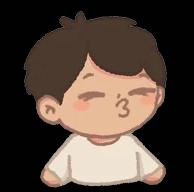
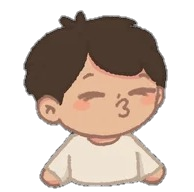
testing

diff --git a/index.html b/index.html
@@ -7,7 +7,7 @@
 <link rel="preconnect" href="https://fonts.googleapis.com">
 <link rel="preconnect" href="https://fonts.gstatic.com" crossorigin>
 <link href="https://fonts.googleapis.com/css2?family=Caveat:wght@500;700&family=Quicksand:wght@400;500;600;700&display=swap" rel="stylesheet">
-<link rel="stylesheet" href="style.css">
+<link rel="stylesheet" href="style.css?v=2">
 </head>
 <body>
 
@@ -21,6 +21,12 @@
   <svg class="sketch-heart h6" viewBox="0 0 44 40"><path d="M22,9 C16,-2 -1,-1 0,11 C1,22 13,27 22,37 C32,27 43,23 44,11 C45,-1 28,-2 22,9 Z"/></svg>
   <svg class="sketch-heart h7" viewBox="0 0 44 40"><path d="M22,9 C16,-2 -1,-1 0,11 C1,22 13,27 22,37 C32,27 43,23 44,11 C45,-1 28,-2 22,9 Z"/></svg>
   <svg class="sketch-heart h8" viewBox="0 0 44 40"><path d="M22,9 C16,-2 -1,-1 0,11 C1,22 13,27 22,37 C32,27 43,23 44,11 C45,-1 28,-2 22,9 Z"/></svg>
+  <svg class="sketch-heart h9" viewBox="0 0 44 40"><path d="M22,9 C16,-2 -1,-1 0,11 C1,22 13,27 22,37 C32,27 43,23 44,11 C45,-1 28,-2 22,9 Z"/></svg>
+  <svg class="sketch-heart h10" viewBox="0 0 44 40"><path d="M22,9 C16,-2 -1,-1 0,11 C1,22 13,27 22,37 C32,27 43,23 44,11 C45,-1 28,-2 22,9 Z"/></svg>
+  <svg class="sketch-heart h11" viewBox="0 0 44 40"><path d="M22,9 C16,-2 -1,-1 0,11 C1,22 13,27 22,37 C32,27 43,23 44,11 C45,-1 28,-2 22,9 Z"/></svg>
+  <svg class="sketch-heart h12" viewBox="0 0 44 40"><path d="M22,9 C16,-2 -1,-1 0,11 C1,22 13,27 22,37 C32,27 43,23 44,11 C45,-1 28,-2 22,9 Z"/></svg>
+  <svg class="sketch-heart h13" viewBox="0 0 44 40"><path d="M22,9 C16,-2 -1,-1 0,11 C1,22 13,27 22,37 C32,27 43,23 44,11 C45,-1 28,-2 22,9 Z"/></svg>
+  <svg class="sketch-heart h14" viewBox="0 0 44 40"><path d="M22,9 C16,-2 -1,-1 0,11 C1,22 13,27 22,37 C32,27 43,23 44,11 C45,-1 28,-2 22,9 Z"/></svg>
 </div>
 
 <!-- Balloons burst here on envelope open, populated by JS -->
@@ -31,27 +37,27 @@
 <!-- ============================================================ -->
 <section id="countdown-screen" class="screen">
   <div class="soft-glow"></div>
-  <p class="eyebrow">something's coming</p>
-  <h1 class="script-heading">10 months, almost&nbsp;here</h1>
+  <p class="eyebrow">10 mesesitos <3</p>
+  <h1 class="script-heading">Nos faltan solo&nbsp;</h1>
   <div class="countdown">
     <div class="time-block">
       <span id="cd-days" class="time-num">00</span>
-      <span class="time-label">days</span>
+      <span class="time-label">dias</span>
     </div>
     <div class="time-block">
       <span id="cd-hours" class="time-num">00</span>
-      <span class="time-label">hours</span>
+      <span class="time-label">horas</span>
     </div>
     <div class="time-block">
       <span id="cd-mins" class="time-num">00</span>
-      <span class="time-label">minutes</span>
+      <span class="time-label">minutos</span>
     </div>
     <div class="time-block">
       <span id="cd-secs" class="time-num">00</span>
-      <span class="time-label">seconds</span>
+      <span class="time-label">segundos</span>
     </div>
   </div>
-  <p class="countdown-footer">until September 10th 💌</p>
+  <p class="countdown-footer">para el 10 de Septiembre 💌</p>
 </section>
 
 
@@ -66,17 +72,17 @@
       <img id="char-img" class="char-img" src="images/beforeOpening.png" alt="">
     </div>
 
-    <p id="cat-speech" class="speech-bubble">Happy 10 months my love 🩷<br>Do you want to see your gift?</p>
+    <p id="cat-speech" class="speech-bubble">Felices 10 meses mi amor 🩷<br>Quieres ver tu regalo?</p>
 
     <div class="button-row">
-      <button id="btn-yes" class="btn btn-yes">yes</button>
+      <button id="btn-yes" class="btn btn-yes">Si!</button>
       <button id="btn-no" class="btn btn-no">no</button>
     </div>
   </div>
 
   <!-- ---------- Scene B: bouquet + card ---------- -->
   <div id="scene-bouquet" class="scene" hidden>
-    <p class="script-heading small">for you</p>
+    <p class="script-heading small">toma para tiiii <3</p>
 
     <img class="char-img flower-boy-img" src="images/flowerBoy.png" alt="">
 
@@ -92,35 +98,38 @@
           <path class="seal-shine" d="M-7,-6 C-8,-4 -8,-1 -6,0" />
         </g>
       </svg>
-      <span class="card-hint">press the envelope to open it</span>
+      <span class="card-hint">hint: picale</span>
     </button>
   </div>
 
   <!-- ---------- Scene C: the letter ---------- -->
   <div id="scene-letter" class="scene" hidden>
-    <div class="letter-paper">
-      <!--
-        ✏  WRITE YOUR LETTER HERE.
-        This is plain HTML, so:
-          - press Enter for a new paragraph → wrap it in <p>...</p>
-          - you can use <br> for a single line break inside a paragraph
-        Everything between the <div class="letter-text"> tags is what she'll read.
-      -->
-      <div class="letter-text">
-        <p>My love,</p>
-        <p>
-          Write your letter to her right here. Replace this whole paragraph
-          (and add as many more as you'd like) with whatever you want to say —
-          this is the part only you can write.
-        </p>
-        <p>Happy 10 months. Here's to many, many more.</p>
-        <p class="signature">— yours</p>
+    <div class="letter-wrap">
+      <img class="peek-char" src="images/afterOpening.png" alt="">
+      <div class="letter-paper">
+        <!--
+          ✏  WRITE YOUR LETTER HERE.
+          This is plain HTML, so:
+            - press Enter for a new paragraph → wrap it in <p>...</p>
+            - you can use <br> for a single line break inside a paragraph
+          Everything between the <div class="letter-text"> tags is what she'll read.
+        -->
+        <div class="letter-text">
+          <p>My love,</p>
+          <p>
+            Write your letter to her right here. Replace this whole paragraph
+            (and add as many more as you'd like) with whatever you want to say —
+            this is the part only you can write.
+          </p>
+          <p>Happy 10 months. Here's to many, many more.</p>
+          <p class="signature">— yours</p>
+        </div>
       </div>
     </div>
   </div>
 
 </section>
 
-<script src="script.js"></script>
+<script src="script.js?v=2"></script>
 </body>
 </html>

diff --git a/style.css b/style.css
@@ -227,7 +227,28 @@ body {
 .card-btn:hover .card-svg { transform: translateY(-3px); }
 
 /* --- letter --- */
+.letter-wrap {
+  position: relative;
+  max-width: 480px;
+  width: 100%;
+  display: flex;
+  justify-content: center;
+}
+
+.peek-char {
+  position: absolute;
+  top: -108px;
+  left: 50%;
+  transform: translateX(-50%);
+  width: 140px;
+  height: auto;
+  z-index: 0;
+  filter: drop-shadow(0 6px 10px rgba(178,58,90,0.15));
+}
+
 .letter-paper {
+  position: relative;
+  z-index: 1;
   background: var(--white);
   border-radius: 14px;
   padding: clamp(24px, 5vw, 44px);
@@ -276,19 +297,25 @@ body {
 .sketch-heart {
   position: absolute;
   fill: none;
-  stroke: var(--rose-mid);
+  stroke: var(--rose);
   stroke-width: 2.2;
   stroke-linecap: round;
   stroke-linejoin: round;
 }
-.h1 { width: 34px; top: 8%;  left: 7%;   opacity: 0.16; transform: rotate(-14deg); }
-.h2 { width: 54px; top: 16%; right: 9%;  opacity: 0.13; transform: rotate(11deg); }
-.h3 { width: 26px; top: 32%; left: 4%;   opacity: 0.18; transform: rotate(6deg); }
-.h4 { width: 44px; top: 46%; right: 5%;  opacity: 0.14; transform: rotate(-9deg); }
-.h5 { width: 30px; top: 66%; left: 10%;  opacity: 0.17; transform: rotate(16deg); }
-.h6 { width: 50px; top: 74%; right: 12%; opacity: 0.12; transform: rotate(-6deg); }
-.h7 { width: 24px; top: 88%; left: 22%;  opacity: 0.16; transform: rotate(-18deg); }
-.h8 { width: 38px; top: 4%;  left: 44%;  opacity: 0.11; transform: rotate(9deg); }
+.h1  { width: 34px; top: 8%;  left: 7%;   opacity: 0.30; transform: rotate(-14deg); }
+.h2  { width: 54px; top: 16%; right: 9%;  opacity: 0.26; transform: rotate(11deg); }
+.h3  { width: 26px; top: 32%; left: 4%;   opacity: 0.32; transform: rotate(6deg); }
+.h4  { width: 44px; top: 46%; right: 5%;  opacity: 0.28; transform: rotate(-9deg); }
+.h5  { width: 30px; top: 66%; left: 10%;  opacity: 0.30; transform: rotate(16deg); }
+.h6  { width: 50px; top: 74%; right: 12%; opacity: 0.24; transform: rotate(-6deg); }
+.h7  { width: 24px; top: 88%; left: 22%;  opacity: 0.28; transform: rotate(-18deg); }
+.h8  { width: 38px; top: 4%;  left: 44%;  opacity: 0.22; transform: rotate(9deg); }
+.h9  { width: 28px; top: 24%; left: 30%;  opacity: 0.22; transform: rotate(-11deg); }
+.h10 { width: 32px; top: 22%; right: 28%; opacity: 0.20; transform: rotate(13deg); }
+.h11 { width: 22px; top: 40%; left: 20%;  opacity: 0.26; transform: rotate(4deg); }
+.h12 { width: 36px; top: 56%; right: 22%; opacity: 0.22; transform: rotate(-7deg); }
+.h13 { width: 26px; top: 60%; left: 40%;  opacity: 0.20; transform: rotate(15deg); }
+.h14 { width: 30px; top: 80%; right: 38%; opacity: 0.24; transform: rotate(-10deg); }
 
 .screen { position: relative; z-index: 1; }
 
@@ -306,7 +333,7 @@ body {
   width: 64px;
   height: auto;
   animation-name: balloonFloat;
-  animation-duration: 3s;
+  animation-duration: 2s;
   animation-timing-function: cubic-bezier(0.25, 0.05, 0.3, 1);
   animation-fill-mode: forwards;
 }

diff --git a/script.js b/script.js
@@ -66,19 +66,31 @@ const balloonLayer = document.getElementById('balloon-layer');
 function launchBalloons() {
   const positions = [8, 22, 38, 52, 66, 80, 92];
   const images = ['images/balloon1.png', 'images/balloon2.png'];
+  // three vertical "levels" queued below the screen so the cluster looks fuller
+  // as it rises, rather than a single thin row.
+  const rows = [
+    { bottom: -20, delayBase: 0 },
+    { bottom: -50, delayBase: 0.12 },
+    { bottom: -80, delayBase: 0.22 }
+  ];
 
-  positions.forEach((leftPercent, i) => {
-    const img = document.createElement('img');
-    img.src = images[i % images.length];
-    img.className = 'balloon-pop';
-    img.alt = '';
-    const size = 46 + Math.random() * 34;
-    img.style.width = `${size}px`;
-    img.style.left = `${leftPercent}%`;
-    img.style.animationDelay = `${Math.random() * 0.25}s`;
-    balloonLayer.appendChild(img);
+  rows.forEach((row, rowIndex) => {
+    positions.forEach((leftPercent, i) => {
+      const img = document.createElement('img');
+      img.src = images[(i + rowIndex) % images.length];
+      img.className = 'balloon-pop';
+      img.alt = '';
+      const size = 46 + Math.random() * 34;
+      img.style.width = `${size}px`;
+      // offset each row's x positions slightly so balloons don't stack in a perfect grid
+      const jitter = rowIndex * 5 - 5;
+      img.style.left = `${leftPercent + jitter}%`;
+      img.style.bottom = `${row.bottom}%`;
+      img.style.animationDelay = `${row.delayBase + Math.random() * 0.2}s`;
+      balloonLayer.appendChild(img);
 
-    img.addEventListener('animationend', () => img.remove());
+      img.addEventListener('animationend', () => img.remove());
+    });
   });
 }
 
@@ -94,10 +106,10 @@ btnNo.addEventListener('click', () => {
 
   if (noClicks === 1) {
     charImg.classList.add('state-mad');
-    charSpeech.textContent = 'Try again!';
+    charSpeech.textContent = 'intenta otra vez!';
   } else {
     charImg.classList.add('state-veryMad');
-    charSpeech.textContent = 'I SAID TRY AGAIN';
+    charSpeech.textContent = 'QUE INTENTES OTRA VEZ 🤬';
   }
 });
 
